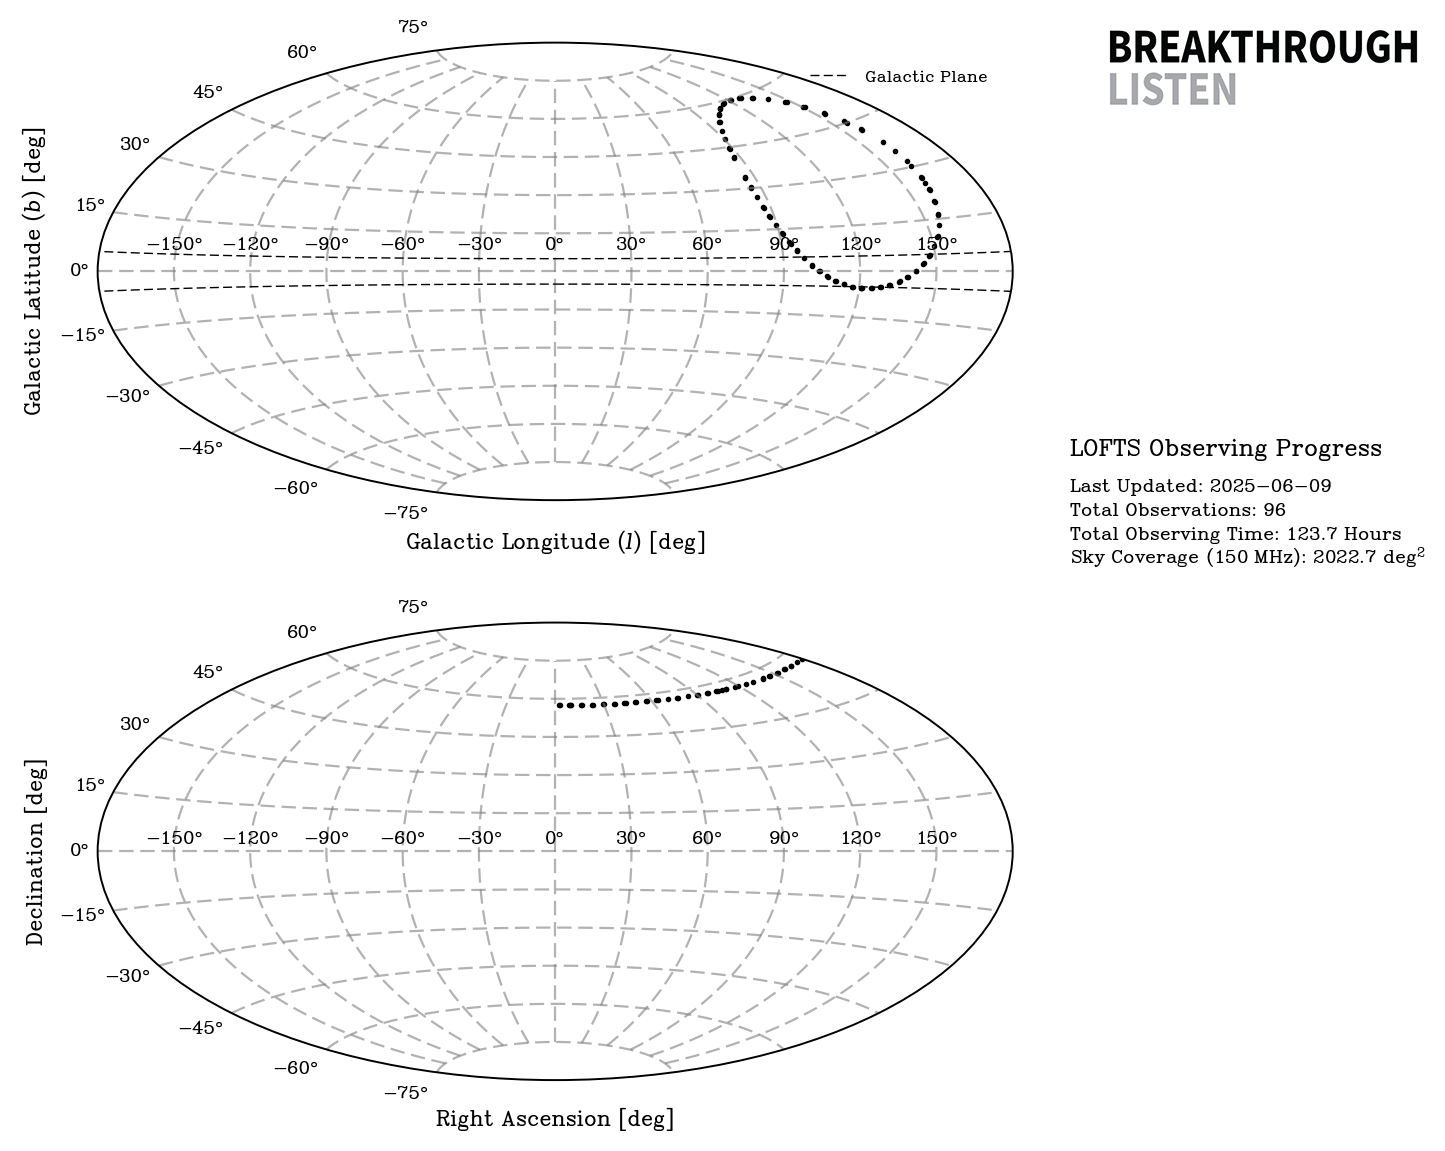
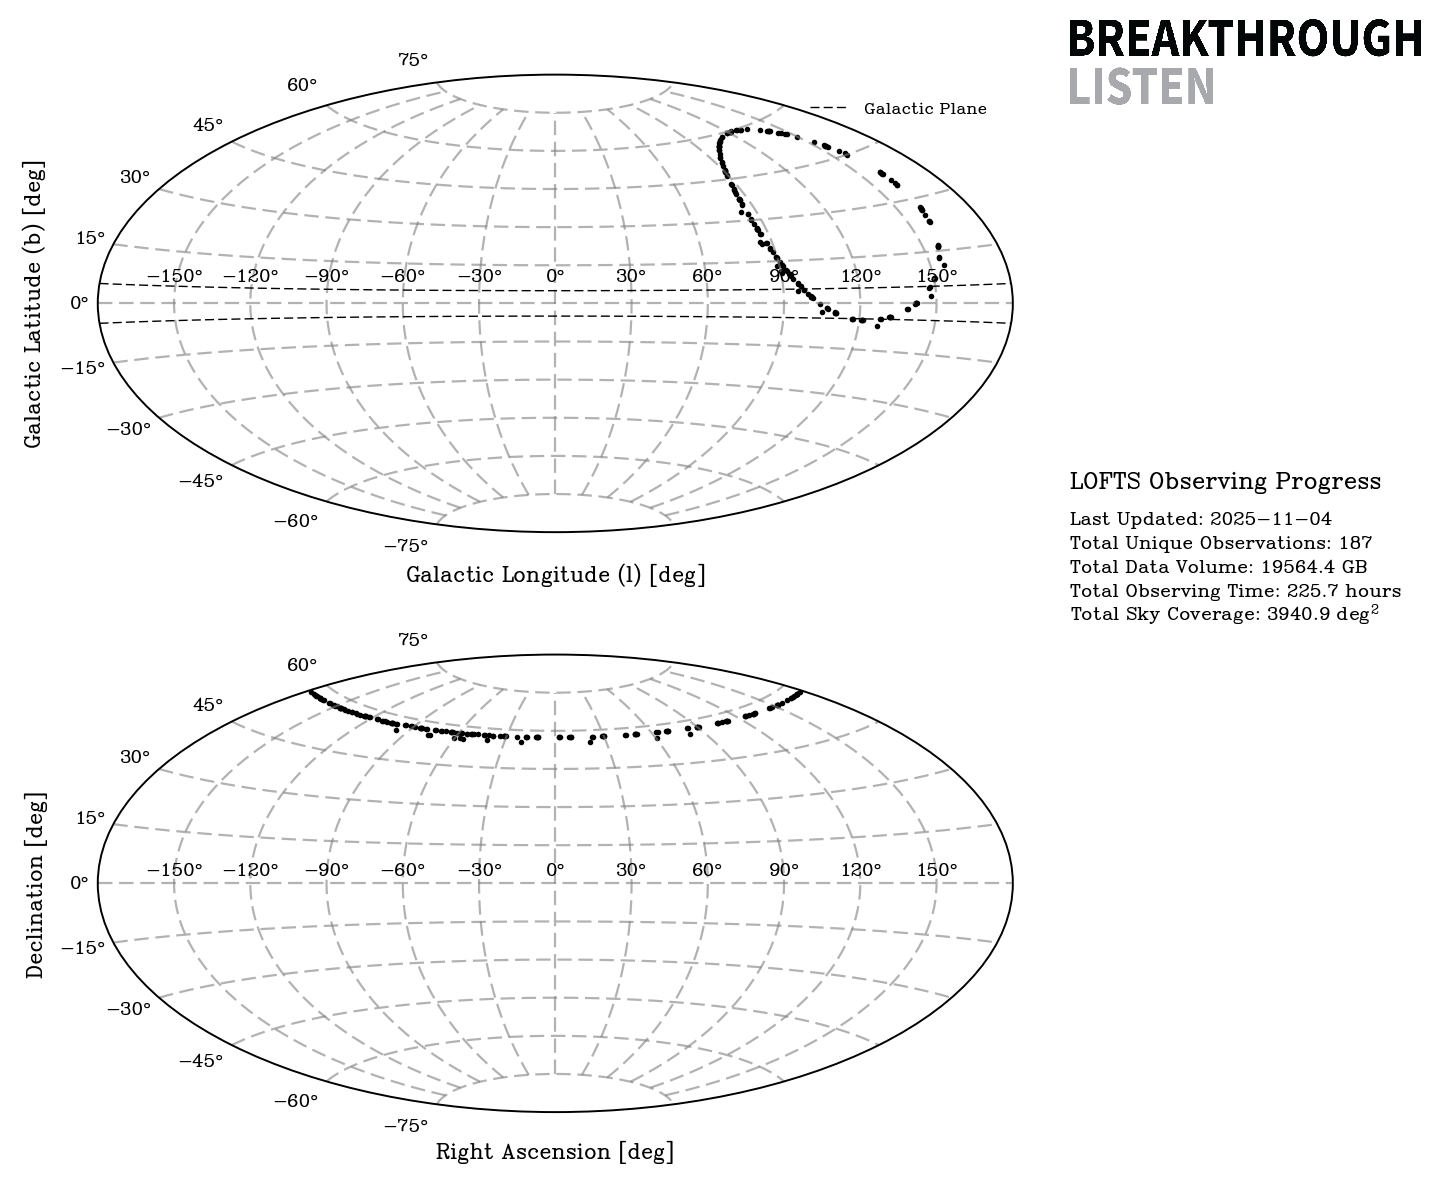
Updating progress script.

diff --git a/Progress/LOFTS-progress.py b/Progress/LOFTS-progress.py
@@ -1,16 +1,35 @@
 from glob import glob
 import numpy as np
-from astropy.coordinates import SkyCoord, EarthLocation, AltAz
-from astropy.time import Time
+from astropy.coordinates import SkyCoord
 import astropy.units as u
 import your
 import pandas as pd
 import matplotlib.pyplot as plt
 import matplotlib.transforms as mtransforms
-# import scienceplots; plt.style.use(['science', 'no-latex'])
+import matplotlib.image as mpimg
+from datetime import date
 import smplotlib
+import argparse
+
+def get_args():
+    parser = argparse.ArgumentParser(description="LOFTS Progress")
+    parser.add_argument('-s', '--station', type=str, required=True, help='LOFAR station (IE or SE)')
+    parser.add_argument('-p', '--plot', action='store_true', help='Generate plots')
+    
+
+    return parser.parse_args()
+
+def wrap_angle(deg_array):
+    """Wrap angles to [-180, +180) degrees for Aitoff projection."""
+    return np.remainder(deg_array + 180, 360) - 180
+
+args = get_args()
+station = args.station # 'IE' or 'SE'
+if station not in ['IE', 'SE']:
+    raise ValueError("Station must be 'IE' or 'SE'")
 
 filterbanks = glob('/datax2/projects/LOFTS/*/*/LOFTS*.fil')
+logo_img = mpimg.imread('./breakthrough-listen.png')
 
 source_name, filename = [], []
 ra_deg, dec_deg = [], []
@@ -23,22 +42,21 @@ npols = []
 for fil in filterbanks:
     hdr = your.Your(fil).your_header
 
-     # Generic info
     source_name.append(hdr.source_name)
     filename.append(hdr.filename)
-
-    # resolution and size calcs
+    
     nchan = hdr.native_nchans
     nspec = hdr.native_nspectra
     bits = hdr.native_nbits
     npols.append(hdr.npol)
 
-    tsamp = hdr.tsamp; tsamp_arr.append(tsamp)
-    tobs.append((nspec*tsamp)/60)
-    f_res.append(np.round(hdr.foff*1e3, 5)) # KHz
+    tsamp = hdr.tsamp
+    tsamp_arr.append(tsamp)
+    tobs.append((nspec * tsamp) / 60)  # minutes
+    f_res.append(np.round(hdr.foff * 1e3, 5))  # kHz
 
-    size_bits = nchan*nspec*(bits/8)
-    size_gb.append(np.round(size_bits/1024**3, 2))
+    size_bits = nchan * nspec * (bits / 8)
+    size_gb.append(np.round(size_bits / 1024**3, 2))
 
     # Coord stuff
     ra = hdr.ra_deg
@@ -55,6 +73,9 @@ for fil in filterbanks:
     l_deg.append(gal.l.deg)
     b_deg.append(gal.b.deg)
 
+# ---------------------------
+# Build dataframe
+# ---------------------------
 data = {
     'source_name': source_name,
     'filename': filename,
@@ -72,24 +93,32 @@ data = {
 }
 
 df = pd.DataFrame(data)
-print(df.head())
+df.to_csv('LOFTS-observations-Progress-%s-%s.csv' % (date.today().isoformat(), station), index=False)
+print('Number of files:', len(df))
 
+uniqdf = df[df['filename'].str.contains('0000.fil')].reset_index(drop=True)
+print('Number of unique observations:', len(uniqdf))
 
-# --- Summary Plots ---
-df.drop_duplicates(subset=['source_name'])
-l_deg = df['l_deg']; b_deg = df['b_deg']
-ra_deg = df['ra_deg']; dec_deg = df['dec_deg']
+sky_cov = len(uniqdf) * np.pi * 2.59**2   # deg^2
 
-# --- Galactic Plane Plot ---
+# Wrap longitudes
+l_plot = wrap_angle(uniqdf['l_deg'])
+b_plot = uniqdf['b_deg']
+ra_plot = wrap_angle(uniqdf['ra_deg'])
+dec_plot = uniqdf['dec_deg']
+
+if not args.plot:
+    exit()
+# ---------------------------
+# Galactic Plane Plot
+# ---------------------------
 fig = plt.figure(figsize=(11.69, 3), dpi=200)
 ax = fig.add_subplot(111, projection='aitoff')
 ax.grid(True)
 
-# galactic plane with dashed line, +5 to -5 degrees
-ax.plot(np.radians([0, 720]), np.radians([5, 5]), color='black', linestyle='--', linewidth=0.5, label="Galactic Plane")
-ax.plot(np.radians([0, 720]), np.radians([-5, -5]), color='black', linestyle='--', linewidth=0.5)
-
-ax.scatter(np.radians(l_deg), np.radians(b_deg), s=1)
+ax.plot(np.radians([-180, 180]), np.radians([5, 5]), color='black', linestyle='--', linewidth=0.5, label="Galactic Plane")
+ax.plot(np.radians([-180, 180]), np.radians([-5, -5]), color='black', linestyle='--', linewidth=0.5)
+ax.scatter(np.radians(l_plot), np.radians(b_plot), s=1)
 
 ax.tick_params(labelsize=8)
 for label in ax.get_xticklabels():
@@ -99,60 +128,64 @@ plt.legend(loc='upper right', fontsize=7)
 plt.xlabel("Galactic Longitude $(l)$ [deg]", fontsize=9, labelpad=10)
 plt.ylabel("Galactic Latitude $(b)$ [deg]", fontsize=9)
 plt.savefig("galactic-aitoff.png", bbox_inches='tight')
-plt.show()
 
-
-# --- Sky Plot ---
+# ---------------------------
+# Sky (RA/Dec) Plot
+# ---------------------------
 fig = plt.figure(figsize=(11.69, 3), dpi=200)
 ax = fig.add_subplot(111, projection='aitoff')
 ax.grid(True)
 
-ax.scatter(np.radians(ra_deg), np.radians(dec_deg), s = 1)
+ax.scatter(np.radians(ra_plot), np.radians(dec_plot), s=1)
 ax.tick_params(labelsize=8)
-
-plt.legend(loc='upper right', fontsize=7)
 plt.xlabel("Right Ascension [deg]", fontsize=9, labelpad=10)
 plt.ylabel("Declination [deg]", fontsize=9)
 plt.savefig("sky-aitoff.png", bbox_inches='tight')
 
-# --- Combined Plot ---
+
+# ---------------------------
+# Combined Plot (Galactic + Equatorial)
+# ---------------------------
 fig, axes = plt.subplots(
     nrows=2,
-    figsize=(11.69, 6),  # Adjusted height for 2 stacked plots
+    figsize=(11.69, 6),
     dpi=200,
     subplot_kw={'projection': 'aitoff'}
 )
 
+# Galactic
 ax = axes[0]
 ax.grid(True)
-ax.plot(np.radians([0, 720]), np.radians([5, 5]), color='black', linestyle='--', linewidth=0.5, label="Galactic Plane")
-ax.plot(np.radians([0, 720]), np.radians([-5, -5]), color='black', linestyle='--', linewidth=0.5)
-ax.scatter(np.radians(l_deg), np.radians(b_deg), s=1)
-
+ax.plot(np.radians([-180, 180]), np.radians([5, 5]), color='black', linestyle='--', linewidth=0.5, label="Galactic Plane")
+ax.plot(np.radians([-180, 180]), np.radians([-5, -5]), color='black', linestyle='--', linewidth=0.5)
+ax.scatter(np.radians(l_plot), np.radians(b_plot), s=1)
 ax.tick_params(labelsize=8)
 for label in ax.get_xticklabels():
     label.set_transform(label.get_transform() + mtransforms.ScaledTranslation(0, 5 / 72, fig.dpi_scale_trans))
-
 ax.legend(loc='upper right', fontsize=7)
 ax.set_xlabel("Galactic Longitude $(l)$ [deg]", fontsize=9, labelpad=10)
 ax.set_ylabel("Galactic Latitude $(b)$ [deg]", fontsize=9)
 
+# Equatorial
 ax = axes[1]
 ax.grid(True)
-ax.scatter(np.radians(ra_deg), np.radians(dec_deg), s=1)
+ax.scatter(np.radians(ra_plot), np.radians(dec_plot), s=1)
 ax.tick_params(labelsize=8)
 ax.legend(loc='upper right', fontsize=7)
 ax.set_xlabel("Right Ascension [deg]", fontsize=9, labelpad=10)
 ax.set_ylabel("Declination [deg]", fontsize=9)
 
-# --- Text ---
-from datetime import date; today = date.today().isoformat()
+today = date.today().isoformat()
+fig.text(0.72, 0.6, "LOFTS Observing Progress", fontsize=10)
+fig.text(0.72, 0.57, f"Last Updated: {today}", fontsize=8)
+fig.text(0.72, 0.55, f"Total Unique Observations: {len(uniqdf)}", fontsize=8)
+fig.text(0.72, 0.53, f"Total Data Volume: {np.sum(df['size_gb']):.1f} GB", fontsize=8)
+fig.text(0.72, 0.51, f"Total Observing Time: {np.sum(uniqdf['tobs_min'])/60:.1f} hours", fontsize=8)
+fig.text(0.72, 0.49, f"Total Sky Coverage: {sky_cov:.1f} deg$^2$", fontsize=8)
 
-
-fig.text(0.72, 0.8, "LOFTS Observing Progress", fontsize=10)
-fig.text(0.72, 0.77, "Last Updated: %s" % today, fontsize=8)
-fig.text(0.72, 0.75, "Total Observations: %s" % len(df), fontsize=8)
+logo_ax = fig.add_axes([0.72, 0.88, 0.15, 0.15]) 
+logo_ax.imshow(logo_img[::-1, :,], )
+logo_ax.axis("off")
 
 plt.tight_layout()
-plt.savefig("combined-aitoff.png", bbox_inches='tight')
-plt.show()
+plt.savefig("../plots/combined-aitoff.png", bbox_inches='tight')
